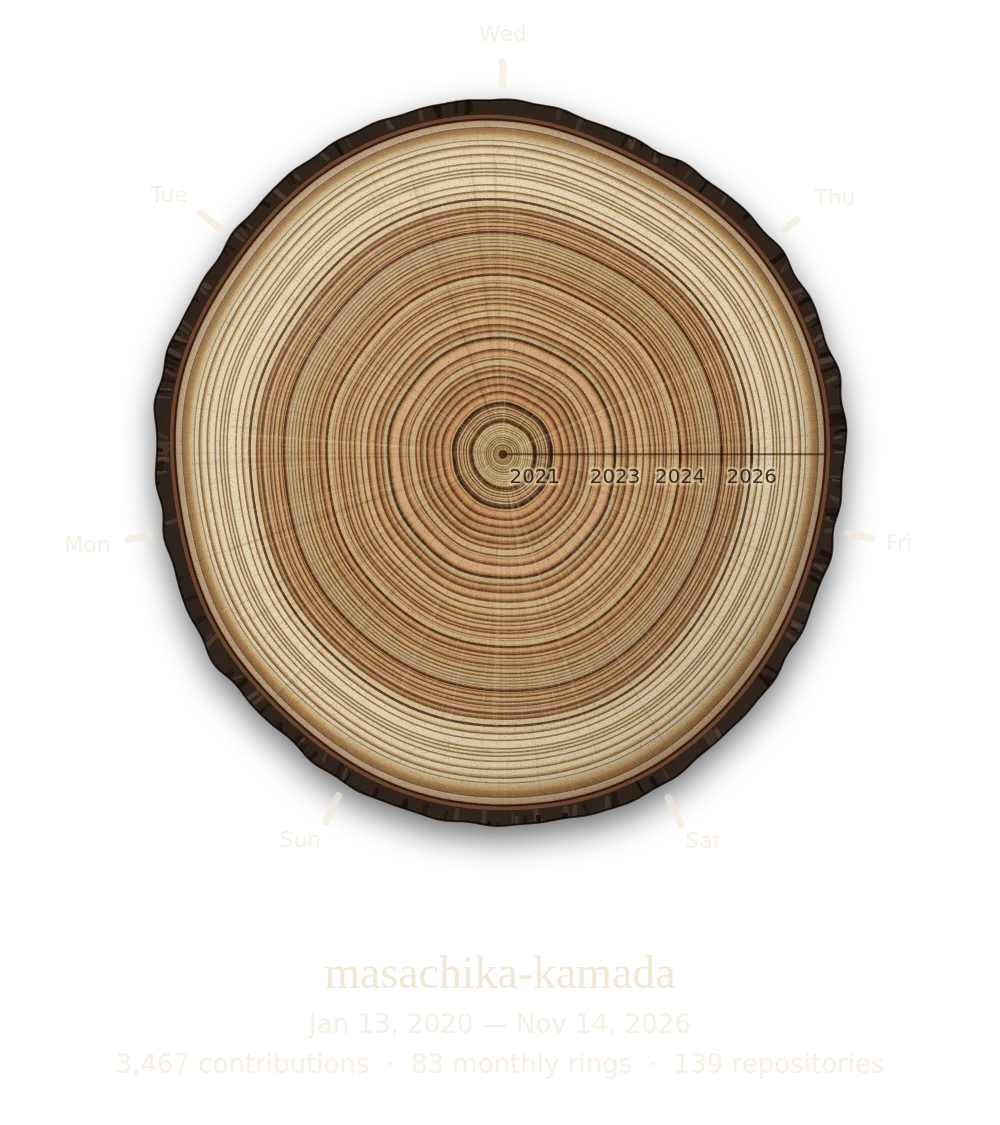
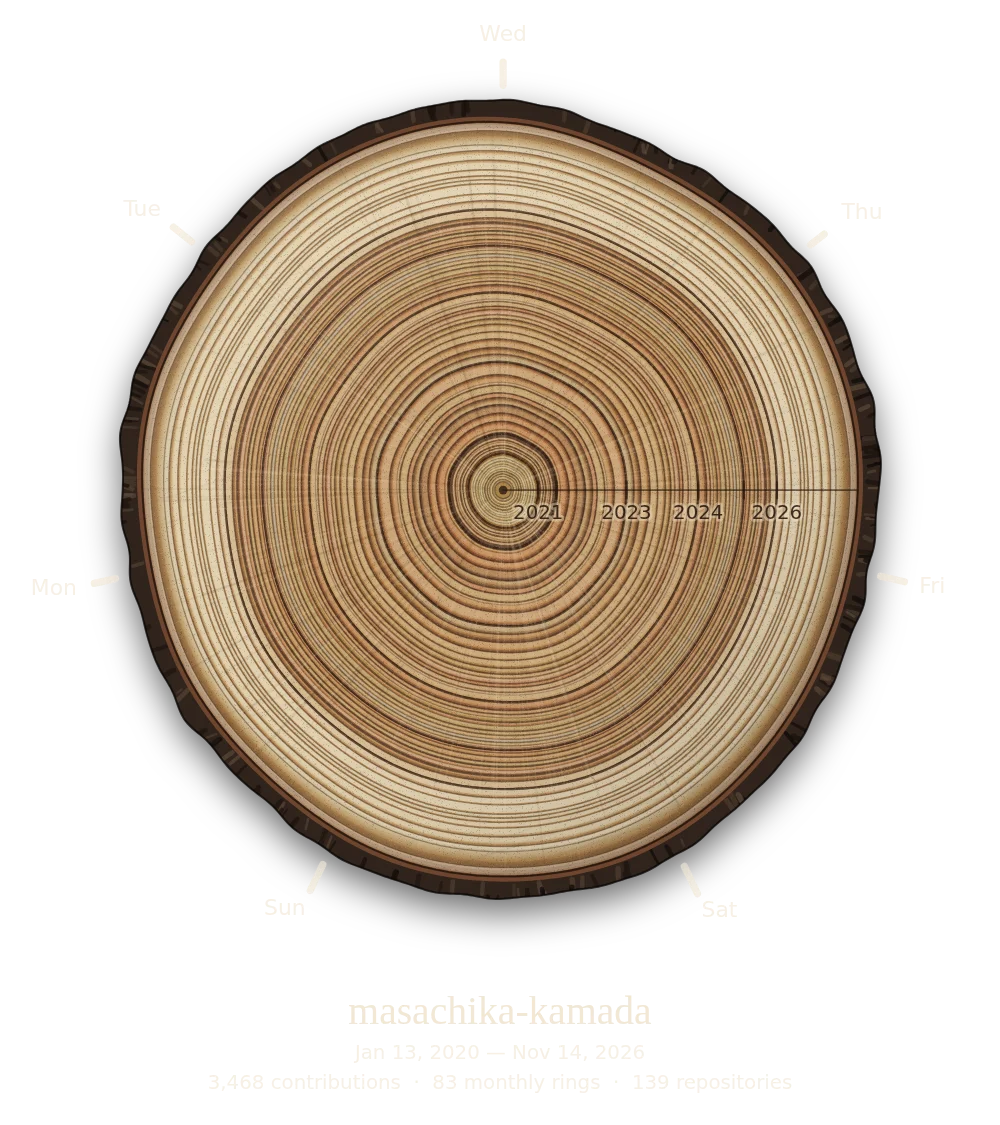
Grow the trunk

diff --git a/README.md b/README.md
@@ -12,7 +12,7 @@
     </picture>
   </a>
   <br>
-  <a href="https://masachika-kamada.github.io/heartwood/#masachika-kamada?ring=0" title="Jan 2020 · 8 contributions · 38% at weekends"><img src="heartwood/core/000.webp" width="5" height="54" alt="" title="Jan 2020 · 8 contributions · 38% at weekends"></a><a href="https://masachika-kamada.github.io/heartwood/#masachika-kamada?ring=1" title="Feb 2020 · 12 contributions · 42% at weekends"><img src="heartwood/core/001.webp" width="5" height="54" alt="" title="Feb 2020 · 12 contributions · 42% at weekends"></a><a href="https://masachika-kamada.github.io/heartwood/#masachika-kamada?ring=2" title="Mar 2020 · 14 contributions · 29% at weekends"><img src="heartwood/core/002.webp" width="5" height="54" alt="" title="Mar 2020 · 14 contributions · 29% at weekends"></a><a href="https://masachika-kamada.github.io/heartwood/#masachika-kamada?ring=3" title="Apr 2020 · 9 contributions · 56% at weekends"><img src="heartwood/core/003.webp" width="5" height="54" alt="" title="Apr 2020 · 9 contributions · 56% at weekends"></a><a href="https://masachika-kamada.github.io/heartwood/#masachika-kamada?ring=4" title="May 2020 · 10 contributions · 70% at weekends"><img src="heartwood/core/004.webp" width="5" height="54" alt="" title="May 2020 · 10 contributions · 70% at weekends"></a><a href="https://masachika-kamada.github.io/heartwood/#masachika-kamada?ring=5" title="Jun 2020 · 4 contributions · 25% at weekends"><img src="heartwood/core/005.webp" width="5" height="54" alt="" title="Jun 2020 · 4 contributions · 25% at weekends"></a><a href="https://masachika-kamada.github.io/heartwood/#masachika-kamada?ring=6" title="Jul 2020 · 6 contributions · 0% at weekends"><img src="heartwood/core/006.webp" width="5" height="54" alt="" title="Jul 2020 · 6 contributions · 0% at weekends"></a><a href="https://masachika-kamada.github.io/heartwood/#masachika-kamada?ring=7" title="Aug 2020 · 7 contributions · 29% at weekends"><img src="heartwood/core/007.webp" width="5" height="54" alt="" title="Aug 2020 · 7 contributions · 29% at weekends"></a><a href="https://masachika-kamada.github.io/heartwood/#masachika-kamada?ring=8" title="Sep 2020 · 11 contributions · 27% at weekends"><img src="heartwood/core/008.webp" width="5" height="54" alt="" title="Sep 2020 · 11 contributions · 27% at weekends"></a><a href="https://masachika-kamada.github.io/heartwood/#masachika-kamada?ring=9" title="Oct 2020 · 8 contributions · 13% at weekends"><img src="heartwood/core/009.webp" width="5" height="54" alt="" title="Oct 2020 · 8 contributions · 13% at weekends"></a><a href="https://masachika-kamada.github.io/heartwood/#masachika-kamada?ring=10" title="Nov 2020 · 12 contributions · 25% at weekends"><img src="heartwood/core/010.webp" width="5" height="54" alt="" title="Nov 2020 · 12 contributions · 25% at weekends"></a><a href="https://masachika-kamada.github.io/heartwood/#masachika-kamada?ring=11" title="Dec 2020 · 2 contributions · 100% at weekends"><img src="heartwood/core/011.webp" width="4" height="54" alt="" title="Dec 2020 · 2 contributions · 100% at weekends"></a><a href="https://masachika-kamada.github.io/heartwood/#masachika-kamada?ring=12" title="Jan 2021 · 11 contributions · 100% at weekends"><img src="heartwood/core/012.webp" width="5" height="54" alt="" title="Jan 2021 · 11 contributions · 100% at weekends"></a><a href="https://masachika-kamada.github.io/heartwood/#masachika-kamada?ring=13" title="Feb 2021 · 7 contributions · 0% at weekends"><img src="heartwood/core/013.webp" width="5" height="54" alt="" title="Feb 2021 · 7 contributions · 0% at weekends"></a><a href="https://masachika-kamada.github.io/heartwood/#masachika-kamada?ring=14" title="Mar 2021 · no contributions"><img src="heartwood/core/014.webp" width="3" height="54" alt="" title="Mar 2021 · no contributions"></a><a href="https://masachika-kamada.github.io/heartwood/#masachika-kamada?ring=15" title="Apr 2021 · 2 contributions · 50% at weekends"><img src="heartwood/core/015.webp" width="4" height="54" alt="" title="Apr 2021 · 2 contributions · 50% at weekends"></a><a href="https://masachika-kamada.github.io/heartwood/#masachika-kamada?ring=16" title="May 2021 · no contributions"><img src="heartwood/core/016.webp" width="3" height="54" alt="" title="May 2021 · no contributions"></a><a href="https://masachika-kamada.github.io/heartwood/#masachika-kamada?ring=17" title="Jun 2021 · 4 contributions · 0% at weekends"><img src="heartwood/core/017.webp" width="5" height="54" alt="" title="Jun 2021 · 4 contributions · 0% at weekends"></a><a href="https://masachika-kamada.github.io/heartwood/#masachika-kamada?ring=18" title="Jul 2021 · 9 contributions · 67% at weekends"><img src="heartwood/core/018.webp" width="5" height="54" alt="" title="Jul 2021 · 9 contributions · 67% at weekends"></a><a href="https://masachika-kamada.github.io/heartwood/#masachika-kamada?ring=19" title="Aug 2021 · 5 contributions · 0% at weekends"><img src="heartwood/core/019.webp" width="5" height="54" alt="" title="Aug 2021 · 5 contributions · 0% at weekends"></a><a href="https://masachika-kamada.github.io/heartwood/#masachika-kamada?ring=20" title="Sep 2021 · no contributions"><img src="heartwood/core/020.webp" width="3" height="54" alt="" title="Sep 2021 · no contributions"></a><a href="https://masachika-kamada.github.io/heartwood/#masachika-kamada?ring=21" title="Oct 2021 · no contributions"><img src="heartwood/core/021.webp" width="3" height="54" alt="" title="Oct 2021 · no contributions"></a><a href="https://masachika-kamada.github.io/heartwood/#masachika-kamada?ring=22" title="Nov 2021 · no contributions"><img src="heartwood/core/022.webp" width="3" height="54" alt="" title="Nov 2021 · no contributions"></a><a href="https://masachika-kamada.github.io/heartwood/#masachika-kamada?ring=23" title="Dec 2021 · no contributions"><img src="heartwood/core/023.webp" width="3" height="54" alt="" title="Dec 2021 · no contributions"></a><a href="https://masachika-kamada.github.io/heartwood/#masachika-kamada?ring=24" title="Jan 2022 · no contributions"><img src="heartwood/core/024.webp" width="3" height="54" alt="" title="Jan 2022 · no contributions"></a><a href="https://masachika-kamada.github.io/heartwood/#masachika-kamada?ring=25" title="Feb 2022 · no contributions"><img src="heartwood/core/025.webp" width="3" height="54" alt="" title="Feb 2022 · no contributions"></a><a href="https://masachika-kamada.github.io/heartwood/#masachika-kamada?ring=26" title="Mar 2022 · 8 contributions · 25% at weekends"><img src="heartwood/core/026.webp" width="5" height="54" alt="" title="Mar 2022 · 8 contributions · 25% at weekends"></a><a href="https://masachika-kamada.github.io/heartwood/#masachika-kamada?ring=27" title="Apr 2022 · 121 contributions · 42% at weekends"><img src="heartwood/core/027.webp" width="13" height="54" alt="" title="Apr 2022 · 121 contributions · 42% at weekends"></a><a href="https://masachika-kamada.github.io/heartwood/#masachika-kamada?ring=28" title="May 2022 · 100 contributions · 41% at weekends"><img src="heartwood/core/028.webp" width="11" height="54" alt="" title="May 2022 · 100 contributions · 41% at weekends"></a><a href="https://masachika-kamada.github.io/heartwood/#masachika-kamada?ring=29" title="Jun 2022 · 118 contributions · 32% at weekends"><img src="heartwood/core/029.webp" width="12" height="54" alt="" title="Jun 2022 · 118 contributions · 32% at weekends"></a><a href="https://masachika-kamada.github.io/heartwood/#masachika-kamada?ring=30" title="Jul 2022 · 84 contributions · 63% at weekends"><img src="heartwood/core/030.webp" width="11" height="54" alt="" title="Jul 2022 · 84 contributions · 63% at weekends"></a><a href="https://masachika-kamada.github.io/heartwood/#masachika-kamada?ring=31" title="Aug 2022 · 42 contributions · 26% at weekends"><img src="heartwood/core/031.webp" width="8" height="54" alt="" title="Aug 2022 · 42 contributions · 26% at weekends"></a><a href="https://masachika-kamada.github.io/heartwood/#masachika-kamada?ring=32" title="Sep 2022 · 94 contributions · 14% at weekends"><img src="heartwood/core/032.webp" width="11" height="54" alt="" title="Sep 2022 · 94 contributions · 14% at weekends"></a><a href="https://masachika-kamada.github.io/heartwood/#masachika-kamada?ring=33" title="Oct 2022 · 5 contributions · 0% at weekends"><img src="heartwood/core/033.webp" width="5" height="54" alt="" title="Oct 2022 · 5 contributions · 0% at weekends"></a><a href="https://masachika-kamada.github.io/heartwood/#masachika-kamada?ring=34" title="Nov 2022 · 93 contributions · 48% at weekends"><img src="heartwood/core/034.webp" width="11" height="54" alt="" title="Nov 2022 · 93 contributions · 48% at weekends"></a><a href="https://masachika-kamada.github.io/heartwood/#masachika-kamada?ring=35" title="Dec 2022 · 235 contributions · 28% at weekends"><img src="heartwood/core/035.webp" width="17" height="54" alt="" title="Dec 2022 · 235 contributions · 28% at weekends"></a><a href="https://masachika-kamada.github.io/heartwood/#masachika-kamada?ring=36" title="Jan 2023 · 97 contributions · 33% at weekends"><img src="heartwood/core/036.webp" width="11" height="54" alt="" title="Jan 2023 · 97 contributions · 33% at weekends"></a><a href="https://masachika-kamada.github.io/heartwood/#masachika-kamada?ring=37" title="Feb 2023 · 81 contributions · 65% at weekends"><img src="heartwood/core/037.webp" width="10" height="54" alt="" title="Feb 2023 · 81 contributions · 65% at weekends"></a><a href="https://masachika-kamada.github.io/heartwood/#masachika-kamada?ring=38" title="Mar 2023 · 118 contributions · 38% at weekends"><img src="heartwood/core/038.webp" width="12" height="54" alt="" title="Mar 2023 · 118 contributions · 38% at weekends"></a><a href="https://masachika-kamada.github.io/heartwood/#masachika-kamada?ring=39" title="Apr 2023 · 84 contributions · 15% at weekends"><img src="heartwood/core/039.webp" width="11" height="54" alt="" title="Apr 2023 · 84 contributions · 15% at weekends"></a><a href="https://masachika-kamada.github.io/heartwood/#masachika-kamada?ring=40" title="May 2023 · 87 contributions · 30% at weekends"><img src="heartwood/core/040.webp" width="11" height="54" alt="" title="May 2023 · 87 contributions · 30% at weekends"></a><a href="https://masachika-kamada.github.io/heartwood/#masachika-kamada?ring=41" title="Jun 2023 · 52 contributions · 50% at weekends"><img src="heartwood/core/041.webp" width="9" height="54" alt="" title="Jun 2023 · 52 contributions · 50% at weekends"></a><a href="https://masachika-kamada.github.io/heartwood/#masachika-kamada?ring=42" title="Jul 2023 · 27 contributions · 19% at weekends"><img src="heartwood/core/042.webp" width="7" height="54" alt="" title="Jul 2023 · 27 contributions · 19% at weekends"></a><a href="https://masachika-kamada.github.io/heartwood/#masachika-kamada?ring=43" title="Aug 2023 · 46 contributions · 37% at weekends"><img src="heartwood/core/043.webp" width="8" height="54" alt="" title="Aug 2023 · 46 contributions · 37% at weekends"></a><a href="https://masachika-kamada.github.io/heartwood/#masachika-kamada?ring=44" title="Sep 2023 · 18 contributions · 50% at weekends"><img src="heartwood/core/044.webp" width="6" height="54" alt="" title="Sep 2023 · 18 contributions · 50% at weekends"></a><a href="https://masachika-kamada.github.io/heartwood/#masachika-kamada?ring=45" title="Oct 2023 · 40 contributions · 10% at weekends"><img src="heartwood/core/045.webp" width="8" height="54" alt="" title="Oct 2023 · 40 contributions · 10% at weekends"></a><a href="https://masachika-kamada.github.io/heartwood/#masachika-kamada?ring=46" title="Nov 2023 · 5 contributions · 0% at weekends"><img src="heartwood/core/046.webp" width="5" height="54" alt="" title="Nov 2023 · 5 contributions · 0% at weekends"></a><a href="https://masachika-kamada.github.io/heartwood/#masachika-kamada?ring=47" title="Dec 2023 · 79 contributions · 24% at weekends"><img src="heartwood/core/047.webp" width="10" height="54" alt="" title="Dec 2023 · 79 contributions · 24% at weekends"></a><a href="https://masachika-kamada.github.io/heartwood/#masachika-kamada?ring=48" title="Jan 2024 · 106 contributions · 37% at weekends"><img src="heartwood/core/048.webp" width="12" height="54" alt="" title="Jan 2024 · 106 contributions · 37% at weekends"></a><a href="https://masachika-kamada.github.io/heartwood/#masachika-kamada?ring=49" title="Feb 2024 · 24 contributions · 38% at weekends"><img src="heartwood/core/049.webp" width="6" height="54" alt="" title="Feb 2024 · 24 contributions · 38% at weekends"></a><a href="https://masachika-kamada.github.io/heartwood/#masachika-kamada?ring=50" title="Mar 2024 · 15 contributions · 13% at weekends"><img src="heartwood/core/050.webp" width="6" height="54" alt="" title="Mar 2024 · 15 contributions · 13% at weekends"></a><a href="https://masachika-kamada.github.io/heartwood/#masachika-kamada?ring=51" title="Apr 2024 · 36 contributions · 61% at weekends"><img src="heartwood/core/051.webp" width="7" height="54" alt="" title="Apr 2024 · 36 contributions · 61% at weekends"></a><a href="https://masachika-kamada.github.io/heartwood/#masachika-kamada?ring=52" title="May 2024 · 16 contributions · 25% at weekends"><img src="heartwood/core/052.webp" width="6" height="54" alt="" title="May 2024 · 16 contributions · 25% at weekends"></a><a href="https://masachika-kamada.github.io/heartwood/#masachika-kamada?ring=53" title="Jun 2024 · 49 contributions · 33% at weekends"><img src="heartwood/core/053.webp" width="8" height="54" alt="" title="Jun 2024 · 49 contributions · 33% at weekends"></a><a href="https://masachika-kamada.github.io/heartwood/#masachika-kamada?ring=54" title="Jul 2024 · 26 contributions · 23% at weekends"><img src="heartwood/core/054.webp" width="7" height="54" alt="" title="Jul 2024 · 26 contributions · 23% at weekends"></a><a href="https://masachika-kamada.github.io/heartwood/#masachika-kamada?ring=55" title="Aug 2024 · 23 contributions · 9% at weekends"><img src="heartwood/core/055.webp" width="6" height="54" alt="" title="Aug 2024 · 23 contributions · 9% at weekends"></a><a href="https://masachika-kamada.github.io/heartwood/#masachika-kamada?ring=56" title="Sep 2024 · 20 contributions · 20% at weekends"><img src="heartwood/core/056.webp" width="6" height="54" alt="" title="Sep 2024 · 20 contributions · 20% at weekends"></a><a href="https://masachika-kamada.github.io/heartwood/#masachika-kamada?ring=57" title="Oct 2024 · 18 contributions · 6% at weekends"><img src="heartwood/core/057.webp" width="6" height="54" alt="" title="Oct 2024 · 18 contributions · 6% at weekends"></a><a href="https://masachika-kamada.github.io/heartwood/#masachika-kamada?ring=58" title="Nov 2024 · 4 contributions · 0% at weekends"><img src="heartwood/core/058.webp" width="5" height="54" alt="" title="Nov 2024 · 4 contributions · 0% at weekends"></a><a href="https://masachika-kamada.github.io/heartwood/#masachika-kamada?ring=59" title="Dec 2024 · 3 contributions · 0% at weekends"><img src="heartwood/core/059.webp" width="4" height="54" alt="" title="Dec 2024 · 3 contributions · 0% at weekends"></a><a href="https://masachika-kamada.github.io/heartwood/#masachika-kamada?ring=60" title="Jan 2025 · no contributions"><img src="heartwood/core/060.webp" width="3" height="54" alt="" title="Jan 2025 · no contributions"></a><a href="https://masachika-kamada.github.io/heartwood/#masachika-kamada?ring=61" title="Feb 2025 · 5 contributions · 40% at weekends"><img src="heartwood/core/061.webp" width="5" height="54" alt="" title="Feb 2025 · 5 contributions · 40% at weekends"></a><a href="https://masachika-kamada.github.io/heartwood/#masachika-kamada?ring=62" title="Mar 2025 · 24 contributions · 54% at weekends"><img src="heartwood/core/062.webp" width="6" height="54" alt="" title="Mar 2025 · 24 contributions · 54% at weekends"></a><a href="https://masachika-kamada.github.io/heartwood/#masachika-kamada?ring=63" title="Apr 2025 · 44 contributions · 34% at weekends"><img src="heartwood/core/063.webp" width="8" height="54" alt="" title="Apr 2025 · 44 contributions · 34% at weekends"></a><a href="https://masachika-kamada.github.io/heartwood/#masachika-kamada?ring=64" title="May 2025 · 21 contributions · 33% at weekends"><img src="heartwood/core/064.webp" width="6" height="54" alt="" title="May 2025 · 21 contributions · 33% at weekends"></a><a href="https://masachika-kamada.github.io/heartwood/#masachika-kamada?ring=65" title="Jun 2025 · no contributions"><img src="heartwood/core/065.webp" width="3" height="54" alt="" title="Jun 2025 · no contributions"></a><a href="https://masachika-kamada.github.io/heartwood/#masachika-kamada?ring=66" title="Jul 2025 · 10 contributions · 20% at weekends"><img src="heartwood/core/066.webp" width="5" height="54" alt="" title="Jul 2025 · 10 contributions · 20% at weekends"></a><a href="https://masachika-kamada.github.io/heartwood/#masachika-kamada?ring=67" title="Aug 2025 · 34 contributions · 32% at weekends"><img src="heartwood/core/067.webp" width="7" height="54" alt="" title="Aug 2025 · 34 contributions · 32% at weekends"></a><a href="https://masachika-kamada.github.io/heartwood/#masachika-kamada?ring=68" title="Sep 2025 · no contributions"><img src="heartwood/core/068.webp" width="3" height="54" alt="" title="Sep 2025 · no contributions"></a><a href="https://masachika-kamada.github.io/heartwood/#masachika-kamada?ring=69" title="Oct 2025 · no contributions"><img src="heartwood/core/069.webp" width="3" height="54" alt="" title="Oct 2025 · no contributions"></a><a href="https://masachika-kamada.github.io/heartwood/#masachika-kamada?ring=70" title="Nov 2025 · 30 contributions · 93% at weekends"><img src="heartwood/core/070.webp" width="7" height="54" alt="" title="Nov 2025 · 30 contributions · 93% at weekends"></a><a href="https://masachika-kamada.github.io/heartwood/#masachika-kamada?ring=71" title="Dec 2025 · 82 contributions · 10% at weekends"><img src="heartwood/core/071.webp" width="10" height="54" alt="" title="Dec 2025 · 82 contributions · 10% at weekends"></a><a href="https://masachika-kamada.github.io/heartwood/#masachika-kamada?ring=72" title="Jan 2026 · 109 contributions · 24% at weekends"><img src="heartwood/core/072.webp" width="12" height="54" alt="" title="Jan 2026 · 109 contributions · 24% at weekends"></a><a href="https://masachika-kamada.github.io/heartwood/#masachika-kamada?ring=73" title="Feb 2026 · 73 contributions · 12% at weekends"><img src="heartwood/core/073.webp" width="10" height="54" alt="" title="Feb 2026 · 73 contributions · 12% at weekends"></a><a href="https://masachika-kamada.github.io/heartwood/#masachika-kamada?ring=74" title="Mar 2026 · 135 contributions · 7% at weekends"><img src="heartwood/core/074.webp" width="13" height="54" alt="" title="Mar 2026 · 135 contributions · 7% at weekends"></a><a href="https://masachika-kamada.github.io/heartwood/#masachika-kamada?ring=75" title="Apr 2026 · 26 contributions · 38% at weekends"><img src="heartwood/core/075.webp" width="7" height="54" alt="" title="Apr 2026 · 26 contributions · 38% at weekends"></a><a href="https://masachika-kamada.github.io/heartwood/#masachika-kamada?ring=76" title="May 2026 · 26 contributions · 42% at weekends"><img src="heartwood/core/076.webp" width="7" height="54" alt="" title="May 2026 · 26 contributions · 42% at weekends"></a><a href="https://masachika-kamada.github.io/heartwood/#masachika-kamada?ring=77" title="Jun 2026 · 52 contributions · 15% at weekends"><img src="heartwood/core/077.webp" width="9" height="54" alt="" title="Jun 2026 · 52 contributions · 15% at weekends"></a><a href="https://masachika-kamada.github.io/heartwood/#masachika-kamada?ring=78" title="Jul 2026 · 119 contributions · 24% at weekends"><img src="heartwood/core/078.webp" width="12" height="54" alt="" title="Jul 2026 · 119 contributions · 24% at weekends"></a><a href="https://masachika-kamada.github.io/heartwood/#masachika-kamada?ring=79" title="Aug 2026 · 123 contributions · 39% at weekends"><img src="heartwood/core/079.webp" width="13" height="54" alt="" title="Aug 2026 · 123 contributions · 39% at weekends"></a><a href="https://masachika-kamada.github.io/heartwood/#masachika-kamada?ring=80" title="Sep 2026 · 47 contributions · 0% at weekends"><img src="heartwood/core/080.webp" width="8" height="54" alt="" title="Sep 2026 · 47 contributions · 0% at weekends"></a><a href="https://masachika-kamada.github.io/heartwood/#masachika-kamada?ring=81" title="Oct 2026 · 287 contributions · 89% at weekends"><img src="heartwood/core/081.webp" width="19" height="54" alt="" title="Oct 2026 · 287 contributions · 89% at weekends"></a><a href="https://masachika-kamada.github.io/heartwood/#masachika-kamada?ring=82" title="Nov 2026 · 105 contributions · 19% at weekends"><img src="heartwood/core/082.webp" width="12" height="54" alt="" title="Nov 2026 · 105 contributions · 19% at weekends"></a><a href="https://masachika-kamada.github.io/heartwood/#masachika-kamada" title="Bark · masachika-kamada"><img src="heartwood/core/083.webp" width="9" height="54" alt="" title="Bark · masachika-kamada"></a>
+  <a href="https://masachika-kamada.github.io/heartwood/#masachika-kamada?ring=0" title="Jan 2020 · 8 contributions · 38% at weekends"><img src="heartwood/core/000.webp" width="5" height="54" alt="" title="Jan 2020 · 8 contributions · 38% at weekends"></a><a href="https://masachika-kamada.github.io/heartwood/#masachika-kamada?ring=1" title="Feb 2020 · 12 contributions · 42% at weekends"><img src="heartwood/core/001.webp" width="5" height="54" alt="" title="Feb 2020 · 12 contributions · 42% at weekends"></a><a href="https://masachika-kamada.github.io/heartwood/#masachika-kamada?ring=2" title="Mar 2020 · 14 contributions · 29% at weekends"><img src="heartwood/core/002.webp" width="5" height="54" alt="" title="Mar 2020 · 14 contributions · 29% at weekends"></a><a href="https://masachika-kamada.github.io/heartwood/#masachika-kamada?ring=3" title="Apr 2020 · 9 contributions · 56% at weekends"><img src="heartwood/core/003.webp" width="5" height="54" alt="" title="Apr 2020 · 9 contributions · 56% at weekends"></a><a href="https://masachika-kamada.github.io/heartwood/#masachika-kamada?ring=4" title="May 2020 · 10 contributions · 70% at weekends"><img src="heartwood/core/004.webp" width="5" height="54" alt="" title="May 2020 · 10 contributions · 70% at weekends"></a><a href="https://masachika-kamada.github.io/heartwood/#masachika-kamada?ring=5" title="Jun 2020 · 4 contributions · 25% at weekends"><img src="heartwood/core/005.webp" width="5" height="54" alt="" title="Jun 2020 · 4 contributions · 25% at weekends"></a><a href="https://masachika-kamada.github.io/heartwood/#masachika-kamada?ring=6" title="Jul 2020 · 6 contributions · 0% at weekends"><img src="heartwood/core/006.webp" width="5" height="54" alt="" title="Jul 2020 · 6 contributions · 0% at weekends"></a><a href="https://masachika-kamada.github.io/heartwood/#masachika-kamada?ring=7" title="Aug 2020 · 7 contributions · 29% at weekends"><img src="heartwood/core/007.webp" width="5" height="54" alt="" title="Aug 2020 · 7 contributions · 29% at weekends"></a><a href="https://masachika-kamada.github.io/heartwood/#masachika-kamada?ring=8" title="Sep 2020 · 11 contributions · 27% at weekends"><img src="heartwood/core/008.webp" width="5" height="54" alt="" title="Sep 2020 · 11 contributions · 27% at weekends"></a><a href="https://masachika-kamada.github.io/heartwood/#masachika-kamada?ring=9" title="Oct 2020 · 8 contributions · 13% at weekends"><img src="heartwood/core/009.webp" width="5" height="54" alt="" title="Oct 2020 · 8 contributions · 13% at weekends"></a><a href="https://masachika-kamada.github.io/heartwood/#masachika-kamada?ring=10" title="Nov 2020 · 12 contributions · 25% at weekends"><img src="heartwood/core/010.webp" width="5" height="54" alt="" title="Nov 2020 · 12 contributions · 25% at weekends"></a><a href="https://masachika-kamada.github.io/heartwood/#masachika-kamada?ring=11" title="Dec 2020 · 2 contributions · 100% at weekends"><img src="heartwood/core/011.webp" width="4" height="54" alt="" title="Dec 2020 · 2 contributions · 100% at weekends"></a><a href="https://masachika-kamada.github.io/heartwood/#masachika-kamada?ring=12" title="Jan 2021 · 11 contributions · 100% at weekends"><img src="heartwood/core/012.webp" width="5" height="54" alt="" title="Jan 2021 · 11 contributions · 100% at weekends"></a><a href="https://masachika-kamada.github.io/heartwood/#masachika-kamada?ring=13" title="Feb 2021 · 7 contributions · 0% at weekends"><img src="heartwood/core/013.webp" width="5" height="54" alt="" title="Feb 2021 · 7 contributions · 0% at weekends"></a><a href="https://masachika-kamada.github.io/heartwood/#masachika-kamada?ring=14" title="Mar 2021 · no contributions"><img src="heartwood/core/014.webp" width="3" height="54" alt="" title="Mar 2021 · no contributions"></a><a href="https://masachika-kamada.github.io/heartwood/#masachika-kamada?ring=15" title="Apr 2021 · 2 contributions · 50% at weekends"><img src="heartwood/core/015.webp" width="4" height="54" alt="" title="Apr 2021 · 2 contributions · 50% at weekends"></a><a href="https://masachika-kamada.github.io/heartwood/#masachika-kamada?ring=16" title="May 2021 · no contributions"><img src="heartwood/core/016.webp" width="3" height="54" alt="" title="May 2021 · no contributions"></a><a href="https://masachika-kamada.github.io/heartwood/#masachika-kamada?ring=17" title="Jun 2021 · 4 contributions · 0% at weekends"><img src="heartwood/core/017.webp" width="5" height="54" alt="" title="Jun 2021 · 4 contributions · 0% at weekends"></a><a href="https://masachika-kamada.github.io/heartwood/#masachika-kamada?ring=18" title="Jul 2021 · 9 contributions · 67% at weekends"><img src="heartwood/core/018.webp" width="5" height="54" alt="" title="Jul 2021 · 9 contributions · 67% at weekends"></a><a href="https://masachika-kamada.github.io/heartwood/#masachika-kamada?ring=19" title="Aug 2021 · 5 contributions · 0% at weekends"><img src="heartwood/core/019.webp" width="5" height="54" alt="" title="Aug 2021 · 5 contributions · 0% at weekends"></a><a href="https://masachika-kamada.github.io/heartwood/#masachika-kamada?ring=20" title="Sep 2021 · no contributions"><img src="heartwood/core/020.webp" width="3" height="54" alt="" title="Sep 2021 · no contributions"></a><a href="https://masachika-kamada.github.io/heartwood/#masachika-kamada?ring=21" title="Oct 2021 · no contributions"><img src="heartwood/core/021.webp" width="3" height="54" alt="" title="Oct 2021 · no contributions"></a><a href="https://masachika-kamada.github.io/heartwood/#masachika-kamada?ring=22" title="Nov 2021 · no contributions"><img src="heartwood/core/022.webp" width="3" height="54" alt="" title="Nov 2021 · no contributions"></a><a href="https://masachika-kamada.github.io/heartwood/#masachika-kamada?ring=23" title="Dec 2021 · no contributions"><img src="heartwood/core/023.webp" width="3" height="54" alt="" title="Dec 2021 · no contributions"></a><a href="https://masachika-kamada.github.io/heartwood/#masachika-kamada?ring=24" title="Jan 2022 · no contributions"><img src="heartwood/core/024.webp" width="3" height="54" alt="" title="Jan 2022 · no contributions"></a><a href="https://masachika-kamada.github.io/heartwood/#masachika-kamada?ring=25" title="Feb 2022 · no contributions"><img src="heartwood/core/025.webp" width="3" height="54" alt="" title="Feb 2022 · no contributions"></a><a href="https://masachika-kamada.github.io/heartwood/#masachika-kamada?ring=26" title="Mar 2022 · 8 contributions · 25% at weekends"><img src="heartwood/core/026.webp" width="5" height="54" alt="" title="Mar 2022 · 8 contributions · 25% at weekends"></a><a href="https://masachika-kamada.github.io/heartwood/#masachika-kamada?ring=27" title="Apr 2022 · 121 contributions · 42% at weekends"><img src="heartwood/core/027.webp" width="13" height="54" alt="" title="Apr 2022 · 121 contributions · 42% at weekends"></a><a href="https://masachika-kamada.github.io/heartwood/#masachika-kamada?ring=28" title="May 2022 · 100 contributions · 41% at weekends"><img src="heartwood/core/028.webp" width="11" height="54" alt="" title="May 2022 · 100 contributions · 41% at weekends"></a><a href="https://masachika-kamada.github.io/heartwood/#masachika-kamada?ring=29" title="Jun 2022 · 118 contributions · 32% at weekends"><img src="heartwood/core/029.webp" width="12" height="54" alt="" title="Jun 2022 · 118 contributions · 32% at weekends"></a><a href="https://masachika-kamada.github.io/heartwood/#masachika-kamada?ring=30" title="Jul 2022 · 84 contributions · 63% at weekends"><img src="heartwood/core/030.webp" width="11" height="54" alt="" title="Jul 2022 · 84 contributions · 63% at weekends"></a><a href="https://masachika-kamada.github.io/heartwood/#masachika-kamada?ring=31" title="Aug 2022 · 42 contributions · 26% at weekends"><img src="heartwood/core/031.webp" width="8" height="54" alt="" title="Aug 2022 · 42 contributions · 26% at weekends"></a><a href="https://masachika-kamada.github.io/heartwood/#masachika-kamada?ring=32" title="Sep 2022 · 94 contributions · 14% at weekends"><img src="heartwood/core/032.webp" width="11" height="54" alt="" title="Sep 2022 · 94 contributions · 14% at weekends"></a><a href="https://masachika-kamada.github.io/heartwood/#masachika-kamada?ring=33" title="Oct 2022 · 5 contributions · 0% at weekends"><img src="heartwood/core/033.webp" width="5" height="54" alt="" title="Oct 2022 · 5 contributions · 0% at weekends"></a><a href="https://masachika-kamada.github.io/heartwood/#masachika-kamada?ring=34" title="Nov 2022 · 93 contributions · 48% at weekends"><img src="heartwood/core/034.webp" width="11" height="54" alt="" title="Nov 2022 · 93 contributions · 48% at weekends"></a><a href="https://masachika-kamada.github.io/heartwood/#masachika-kamada?ring=35" title="Dec 2022 · 235 contributions · 28% at weekends"><img src="heartwood/core/035.webp" width="17" height="54" alt="" title="Dec 2022 · 235 contributions · 28% at weekends"></a><a href="https://masachika-kamada.github.io/heartwood/#masachika-kamada?ring=36" title="Jan 2023 · 97 contributions · 33% at weekends"><img src="heartwood/core/036.webp" width="11" height="54" alt="" title="Jan 2023 · 97 contributions · 33% at weekends"></a><a href="https://masachika-kamada.github.io/heartwood/#masachika-kamada?ring=37" title="Feb 2023 · 81 contributions · 65% at weekends"><img src="heartwood/core/037.webp" width="10" height="54" alt="" title="Feb 2023 · 81 contributions · 65% at weekends"></a><a href="https://masachika-kamada.github.io/heartwood/#masachika-kamada?ring=38" title="Mar 2023 · 118 contributions · 38% at weekends"><img src="heartwood/core/038.webp" width="12" height="54" alt="" title="Mar 2023 · 118 contributions · 38% at weekends"></a><a href="https://masachika-kamada.github.io/heartwood/#masachika-kamada?ring=39" title="Apr 2023 · 84 contributions · 15% at weekends"><img src="heartwood/core/039.webp" width="11" height="54" alt="" title="Apr 2023 · 84 contributions · 15% at weekends"></a><a href="https://masachika-kamada.github.io/heartwood/#masachika-kamada?ring=40" title="May 2023 · 87 contributions · 30% at weekends"><img src="heartwood/core/040.webp" width="11" height="54" alt="" title="May 2023 · 87 contributions · 30% at weekends"></a><a href="https://masachika-kamada.github.io/heartwood/#masachika-kamada?ring=41" title="Jun 2023 · 52 contributions · 50% at weekends"><img src="heartwood/core/041.webp" width="9" height="54" alt="" title="Jun 2023 · 52 contributions · 50% at weekends"></a><a href="https://masachika-kamada.github.io/heartwood/#masachika-kamada?ring=42" title="Jul 2023 · 27 contributions · 19% at weekends"><img src="heartwood/core/042.webp" width="7" height="54" alt="" title="Jul 2023 · 27 contributions · 19% at weekends"></a><a href="https://masachika-kamada.github.io/heartwood/#masachika-kamada?ring=43" title="Aug 2023 · 46 contributions · 37% at weekends"><img src="heartwood/core/043.webp" width="8" height="54" alt="" title="Aug 2023 · 46 contributions · 37% at weekends"></a><a href="https://masachika-kamada.github.io/heartwood/#masachika-kamada?ring=44" title="Sep 2023 · 18 contributions · 50% at weekends"><img src="heartwood/core/044.webp" width="6" height="54" alt="" title="Sep 2023 · 18 contributions · 50% at weekends"></a><a href="https://masachika-kamada.github.io/heartwood/#masachika-kamada?ring=45" title="Oct 2023 · 40 contributions · 10% at weekends"><img src="heartwood/core/045.webp" width="8" height="54" alt="" title="Oct 2023 · 40 contributions · 10% at weekends"></a><a href="https://masachika-kamada.github.io/heartwood/#masachika-kamada?ring=46" title="Nov 2023 · 5 contributions · 0% at weekends"><img src="heartwood/core/046.webp" width="5" height="54" alt="" title="Nov 2023 · 5 contributions · 0% at weekends"></a><a href="https://masachika-kamada.github.io/heartwood/#masachika-kamada?ring=47" title="Dec 2023 · 79 contributions · 24% at weekends"><img src="heartwood/core/047.webp" width="10" height="54" alt="" title="Dec 2023 · 79 contributions · 24% at weekends"></a><a href="https://masachika-kamada.github.io/heartwood/#masachika-kamada?ring=48" title="Jan 2024 · 106 contributions · 37% at weekends"><img src="heartwood/core/048.webp" width="12" height="54" alt="" title="Jan 2024 · 106 contributions · 37% at weekends"></a><a href="https://masachika-kamada.github.io/heartwood/#masachika-kamada?ring=49" title="Feb 2024 · 24 contributions · 38% at weekends"><img src="heartwood/core/049.webp" width="6" height="54" alt="" title="Feb 2024 · 24 contributions · 38% at weekends"></a><a href="https://masachika-kamada.github.io/heartwood/#masachika-kamada?ring=50" title="Mar 2024 · 15 contributions · 13% at weekends"><img src="heartwood/core/050.webp" width="6" height="54" alt="" title="Mar 2024 · 15 contributions · 13% at weekends"></a><a href="https://masachika-kamada.github.io/heartwood/#masachika-kamada?ring=51" title="Apr 2024 · 36 contributions · 61% at weekends"><img src="heartwood/core/051.webp" width="7" height="54" alt="" title="Apr 2024 · 36 contributions · 61% at weekends"></a><a href="https://masachika-kamada.github.io/heartwood/#masachika-kamada?ring=52" title="May 2024 · 16 contributions · 25% at weekends"><img src="heartwood/core/052.webp" width="6" height="54" alt="" title="May 2024 · 16 contributions · 25% at weekends"></a><a href="https://masachika-kamada.github.io/heartwood/#masachika-kamada?ring=53" title="Jun 2024 · 49 contributions · 33% at weekends"><img src="heartwood/core/053.webp" width="8" height="54" alt="" title="Jun 2024 · 49 contributions · 33% at weekends"></a><a href="https://masachika-kamada.github.io/heartwood/#masachika-kamada?ring=54" title="Jul 2024 · 26 contributions · 23% at weekends"><img src="heartwood/core/054.webp" width="7" height="54" alt="" title="Jul 2024 · 26 contributions · 23% at weekends"></a><a href="https://masachika-kamada.github.io/heartwood/#masachika-kamada?ring=55" title="Aug 2024 · 23 contributions · 9% at weekends"><img src="heartwood/core/055.webp" width="6" height="54" alt="" title="Aug 2024 · 23 contributions · 9% at weekends"></a><a href="https://masachika-kamada.github.io/heartwood/#masachika-kamada?ring=56" title="Sep 2024 · 20 contributions · 20% at weekends"><img src="heartwood/core/056.webp" width="6" height="54" alt="" title="Sep 2024 · 20 contributions · 20% at weekends"></a><a href="https://masachika-kamada.github.io/heartwood/#masachika-kamada?ring=57" title="Oct 2024 · 18 contributions · 6% at weekends"><img src="heartwood/core/057.webp" width="6" height="54" alt="" title="Oct 2024 · 18 contributions · 6% at weekends"></a><a href="https://masachika-kamada.github.io/heartwood/#masachika-kamada?ring=58" title="Nov 2024 · 4 contributions · 0% at weekends"><img src="heartwood/core/058.webp" width="5" height="54" alt="" title="Nov 2024 · 4 contributions · 0% at weekends"></a><a href="https://masachika-kamada.github.io/heartwood/#masachika-kamada?ring=59" title="Dec 2024 · 3 contributions · 0% at weekends"><img src="heartwood/core/059.webp" width="4" height="54" alt="" title="Dec 2024 · 3 contributions · 0% at weekends"></a><a href="https://masachika-kamada.github.io/heartwood/#masachika-kamada?ring=60" title="Jan 2025 · no contributions"><img src="heartwood/core/060.webp" width="3" height="54" alt="" title="Jan 2025 · no contributions"></a><a href="https://masachika-kamada.github.io/heartwood/#masachika-kamada?ring=61" title="Feb 2025 · 5 contributions · 40% at weekends"><img src="heartwood/core/061.webp" width="5" height="54" alt="" title="Feb 2025 · 5 contributions · 40% at weekends"></a><a href="https://masachika-kamada.github.io/heartwood/#masachika-kamada?ring=62" title="Mar 2025 · 24 contributions · 54% at weekends"><img src="heartwood/core/062.webp" width="6" height="54" alt="" title="Mar 2025 · 24 contributions · 54% at weekends"></a><a href="https://masachika-kamada.github.io/heartwood/#masachika-kamada?ring=63" title="Apr 2025 · 44 contributions · 34% at weekends"><img src="heartwood/core/063.webp" width="8" height="54" alt="" title="Apr 2025 · 44 contributions · 34% at weekends"></a><a href="https://masachika-kamada.github.io/heartwood/#masachika-kamada?ring=64" title="May 2025 · 21 contributions · 33% at weekends"><img src="heartwood/core/064.webp" width="6" height="54" alt="" title="May 2025 · 21 contributions · 33% at weekends"></a><a href="https://masachika-kamada.github.io/heartwood/#masachika-kamada?ring=65" title="Jun 2025 · no contributions"><img src="heartwood/core/065.webp" width="3" height="54" alt="" title="Jun 2025 · no contributions"></a><a href="https://masachika-kamada.github.io/heartwood/#masachika-kamada?ring=66" title="Jul 2025 · 10 contributions · 20% at weekends"><img src="heartwood/core/066.webp" width="5" height="54" alt="" title="Jul 2025 · 10 contributions · 20% at weekends"></a><a href="https://masachika-kamada.github.io/heartwood/#masachika-kamada?ring=67" title="Aug 2025 · 34 contributions · 32% at weekends"><img src="heartwood/core/067.webp" width="7" height="54" alt="" title="Aug 2025 · 34 contributions · 32% at weekends"></a><a href="https://masachika-kamada.github.io/heartwood/#masachika-kamada?ring=68" title="Sep 2025 · no contributions"><img src="heartwood/core/068.webp" width="3" height="54" alt="" title="Sep 2025 · no contributions"></a><a href="https://masachika-kamada.github.io/heartwood/#masachika-kamada?ring=69" title="Oct 2025 · no contributions"><img src="heartwood/core/069.webp" width="3" height="54" alt="" title="Oct 2025 · no contributions"></a><a href="https://masachika-kamada.github.io/heartwood/#masachika-kamada?ring=70" title="Nov 2025 · 30 contributions · 93% at weekends"><img src="heartwood/core/070.webp" width="7" height="54" alt="" title="Nov 2025 · 30 contributions · 93% at weekends"></a><a href="https://masachika-kamada.github.io/heartwood/#masachika-kamada?ring=71" title="Dec 2025 · 82 contributions · 10% at weekends"><img src="heartwood/core/071.webp" width="10" height="54" alt="" title="Dec 2025 · 82 contributions · 10% at weekends"></a><a href="https://masachika-kamada.github.io/heartwood/#masachika-kamada?ring=72" title="Jan 2026 · 109 contributions · 24% at weekends"><img src="heartwood/core/072.webp" width="12" height="54" alt="" title="Jan 2026 · 109 contributions · 24% at weekends"></a><a href="https://masachika-kamada.github.io/heartwood/#masachika-kamada?ring=73" title="Feb 2026 · 73 contributions · 12% at weekends"><img src="heartwood/core/073.webp" width="10" height="54" alt="" title="Feb 2026 · 73 contributions · 12% at weekends"></a><a href="https://masachika-kamada.github.io/heartwood/#masachika-kamada?ring=74" title="Mar 2026 · 135 contributions · 7% at weekends"><img src="heartwood/core/074.webp" width="13" height="54" alt="" title="Mar 2026 · 135 contributions · 7% at weekends"></a><a href="https://masachika-kamada.github.io/heartwood/#masachika-kamada?ring=75" title="Apr 2026 · 26 contributions · 38% at weekends"><img src="heartwood/core/075.webp" width="7" height="54" alt="" title="Apr 2026 · 26 contributions · 38% at weekends"></a><a href="https://masachika-kamada.github.io/heartwood/#masachika-kamada?ring=76" title="May 2026 · 26 contributions · 42% at weekends"><img src="heartwood/core/076.webp" width="7" height="54" alt="" title="May 2026 · 26 contributions · 42% at weekends"></a><a href="https://masachika-kamada.github.io/heartwood/#masachika-kamada?ring=77" title="Jun 2026 · 52 contributions · 15% at weekends"><img src="heartwood/core/077.webp" width="9" height="54" alt="" title="Jun 2026 · 52 contributions · 15% at weekends"></a><a href="https://masachika-kamada.github.io/heartwood/#masachika-kamada?ring=78" title="Jul 2026 · 119 contributions · 24% at weekends"><img src="heartwood/core/078.webp" width="12" height="54" alt="" title="Jul 2026 · 119 contributions · 24% at weekends"></a><a href="https://masachika-kamada.github.io/heartwood/#masachika-kamada?ring=79" title="Aug 2026 · 123 contributions · 39% at weekends"><img src="heartwood/core/079.webp" width="13" height="54" alt="" title="Aug 2026 · 123 contributions · 39% at weekends"></a><a href="https://masachika-kamada.github.io/heartwood/#masachika-kamada?ring=80" title="Sep 2026 · 47 contributions · 0% at weekends"><img src="heartwood/core/080.webp" width="8" height="54" alt="" title="Sep 2026 · 47 contributions · 0% at weekends"></a><a href="https://masachika-kamada.github.io/heartwood/#masachika-kamada?ring=81" title="Oct 2026 · 287 contributions · 89% at weekends"><img src="heartwood/core/081.webp" width="19" height="54" alt="" title="Oct 2026 · 287 contributions · 89% at weekends"></a><a href="https://masachika-kamada.github.io/heartwood/#masachika-kamada?ring=82" title="Nov 2026 · 106 contributions · 20% at weekends"><img src="heartwood/core/082.webp" width="12" height="54" alt="" title="Nov 2026 · 106 contributions · 20% at weekends"></a><a href="https://masachika-kamada.github.io/heartwood/#masachika-kamada" title="Bark · masachika-kamada"><img src="heartwood/core/083.webp" width="9" height="54" alt="" title="Bark · masachika-kamada"></a>
   <br>
   <sub>Rest the pointer on a band to read that ring. Click a band, or anywhere on the trunk, to open that ring.</sub>
 </p>
